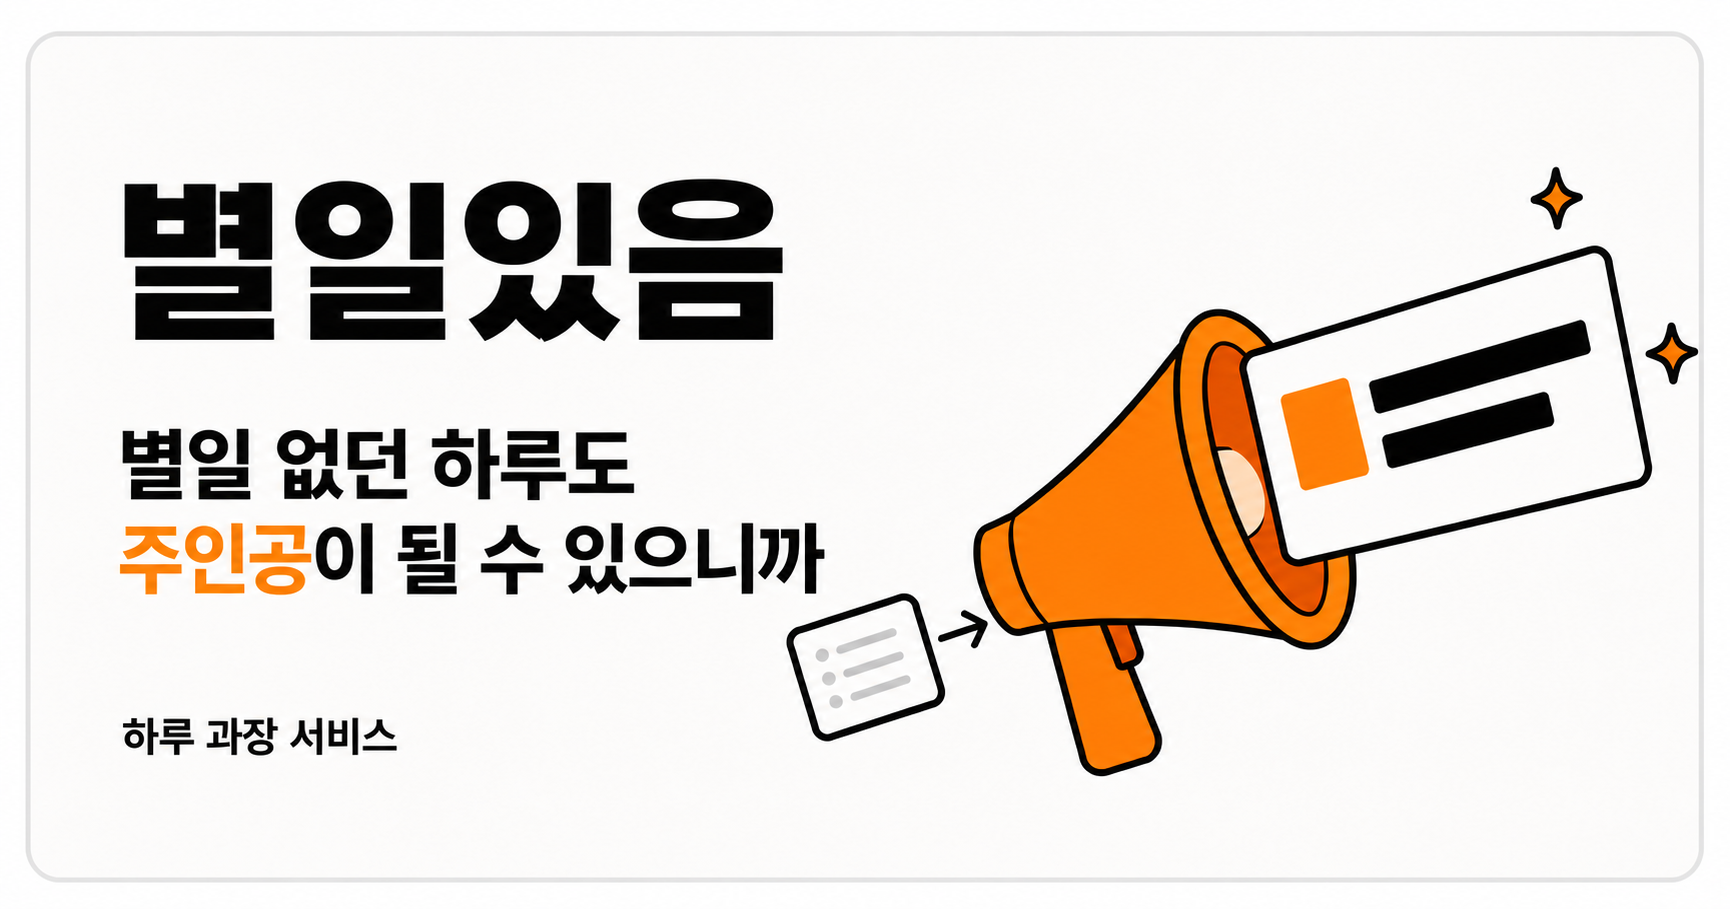
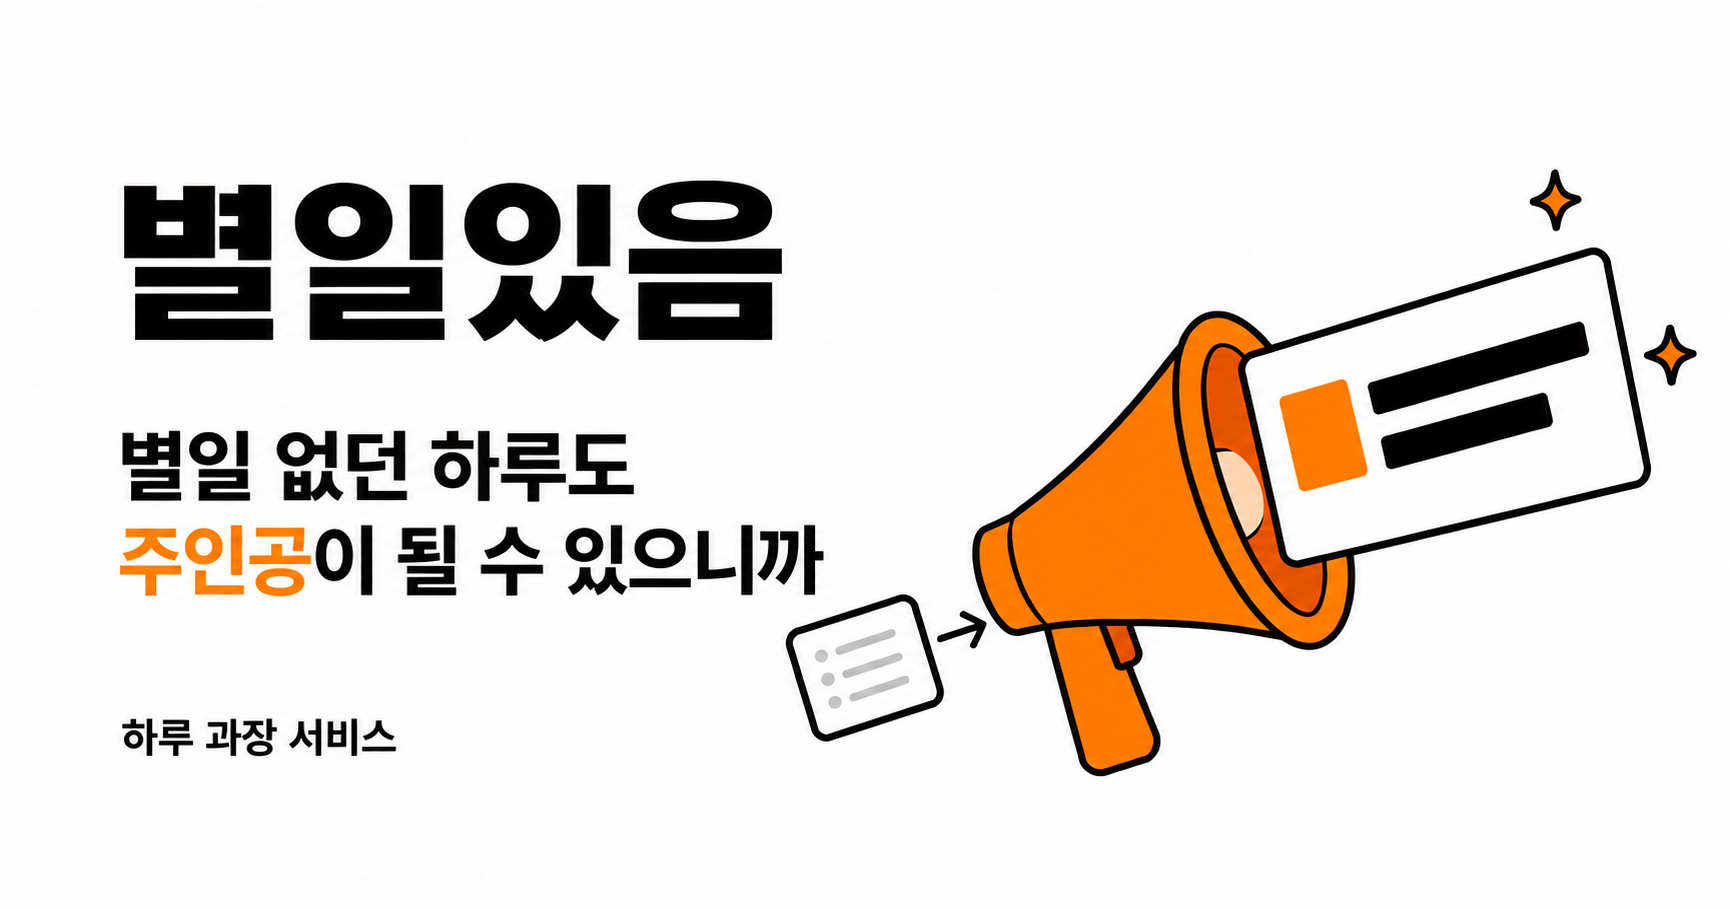
design: 공유 이미지를 정적 이미지로 통일

diff --git a/src/app/result/[id]/page.tsx b/src/app/result/[id]/page.tsx
@@ -32,12 +32,13 @@ export async function generateMetadata({
       description,
       type: "article",
       url: `/result/${id}`,
-      // images: ["/opengraph-image.png"],
+      images: ["/opengraph-image.png"],
     },
     twitter: {
       card: "summary_large_image",
       title,
       description,
+      images: ["/twitter-image.png"],
     },
   };
 }
